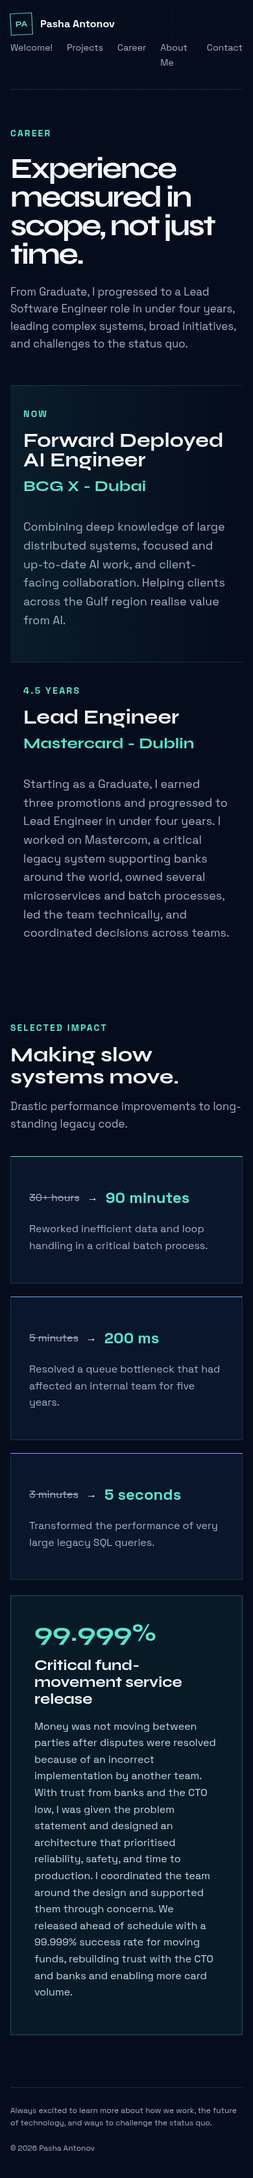
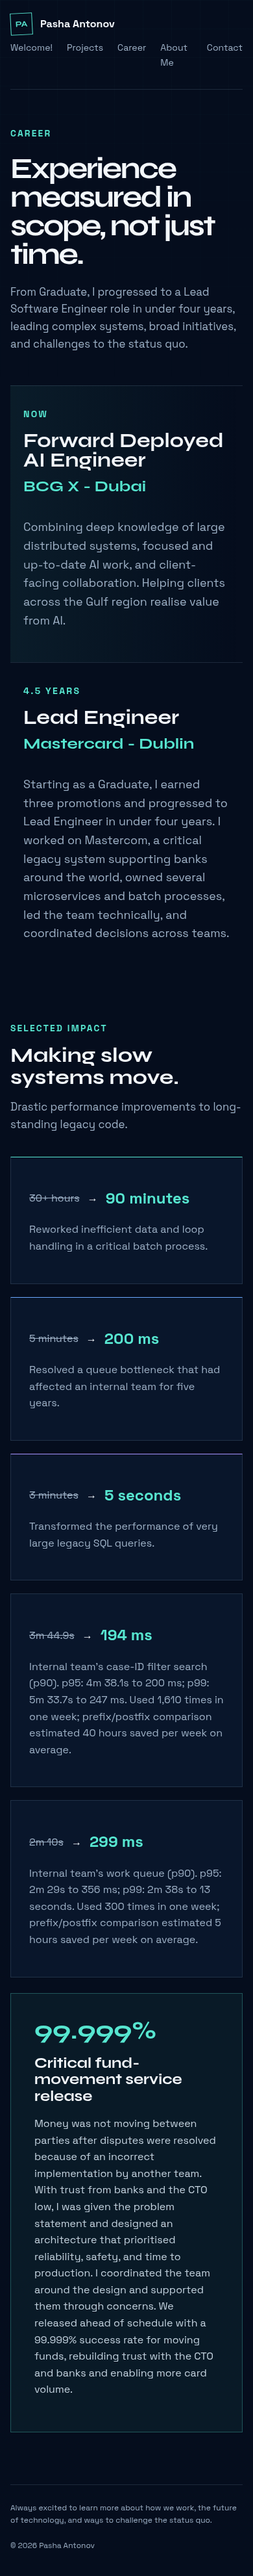
Add Mastercard performance achievements

diff --git a/tests/e2e/navigation.spec.ts b/tests/e2e/navigation.spec.ts
@@ -124,6 +124,14 @@ test("proposal content and ordering are rendered", async ({ page }) => {
     page.getByText("Mastercard - Dublin", { exact: true }),
   ).toBeVisible();
   await expect(page.getByText("4.5 years", { exact: true })).toBeVisible();
+  await expect(page.getByText("194 ms", { exact: true })).toBeVisible();
+  await expect(page.getByText("299 ms", { exact: true })).toBeVisible();
+  await expect(
+    page.getByText(/estimated 40 hours saved per week/),
+  ).toBeVisible();
+  await expect(
+    page.getByText(/estimated 5 hours saved per week/),
+  ).toBeVisible();
   await expect(page.getByText("Over 4.5 years", { exact: true })).toHaveCount(
     0,
   );

diff --git a/app/career/page.tsx b/app/career/page.tsx
@@ -18,6 +18,16 @@ const achievements = [
     "5 seconds",
     "Transformed the performance of very large legacy SQL queries.",
   ],
+  [
+    "3m 44.9s",
+    "194 ms",
+    "Internal team's case-ID filter search (p90). p95: 4m 38.1s to 200 ms; p99: 5m 33.7s to 247 ms. Used 1,610 times in one week; prefix/postfix comparison estimated 40 hours saved per week on average.",
+  ],
+  [
+    "2m 10s",
+    "299 ms",
+    "Internal team's work queue (p90). p95: 2m 29s to 356 ms; p99: 2m 38s to 13 seconds. Used 300 times in one week; prefix/postfix comparison estimated 5 hours saved per week on average.",
+  ],
 ] as const;
 
 export default function CareerPage() {

diff --git a/questionnaire.md b/questionnaire.md
@@ -49,6 +49,13 @@ Include measurable results where they are public and safe to share.
   milliseconds.
 - Reduced very large legacy SQL query runtimes from three minutes to five
   seconds.
+- Improved an internal team's case-ID filter search from 3m 44.9s to 194 ms at
+  p90 (p95: 4m 38.1s to 200 ms; p99: 5m 33.7s to 247 ms). It was used 1,610
+  times in one week; a prefix/postfix comparison estimated 40 hours saved per
+  week.
+- Improved an internal team's work queue from 2m 10s to 299 ms at p90 (p95:
+  2m 29s to 356 ms; p99: 2m 38s to 13 seconds). It was used 300 times in one
+  week; a prefix/postfix comparison estimated 5 hours saved per week.
 - Reached a Tech Lead role within four years of beginning his career.
 
 ### Are there career details from your CV that should not appear publicly?

diff --git a/CHANGELOG.md b/CHANGELOG.md
@@ -7,6 +7,8 @@ in `SPEC.md`; this file records what changed rather than what is planned.
 
 ### Added
 
+- Mastercard internal search and queue performance results, including percentile
+  latency and estimated weekly time savings.
 - Quartertrace, Pascal's first SaaS product, as a featured website-linked project.
 - Initial repository guidance for contributors and coding agents.
 - Project overview and documentation map.
